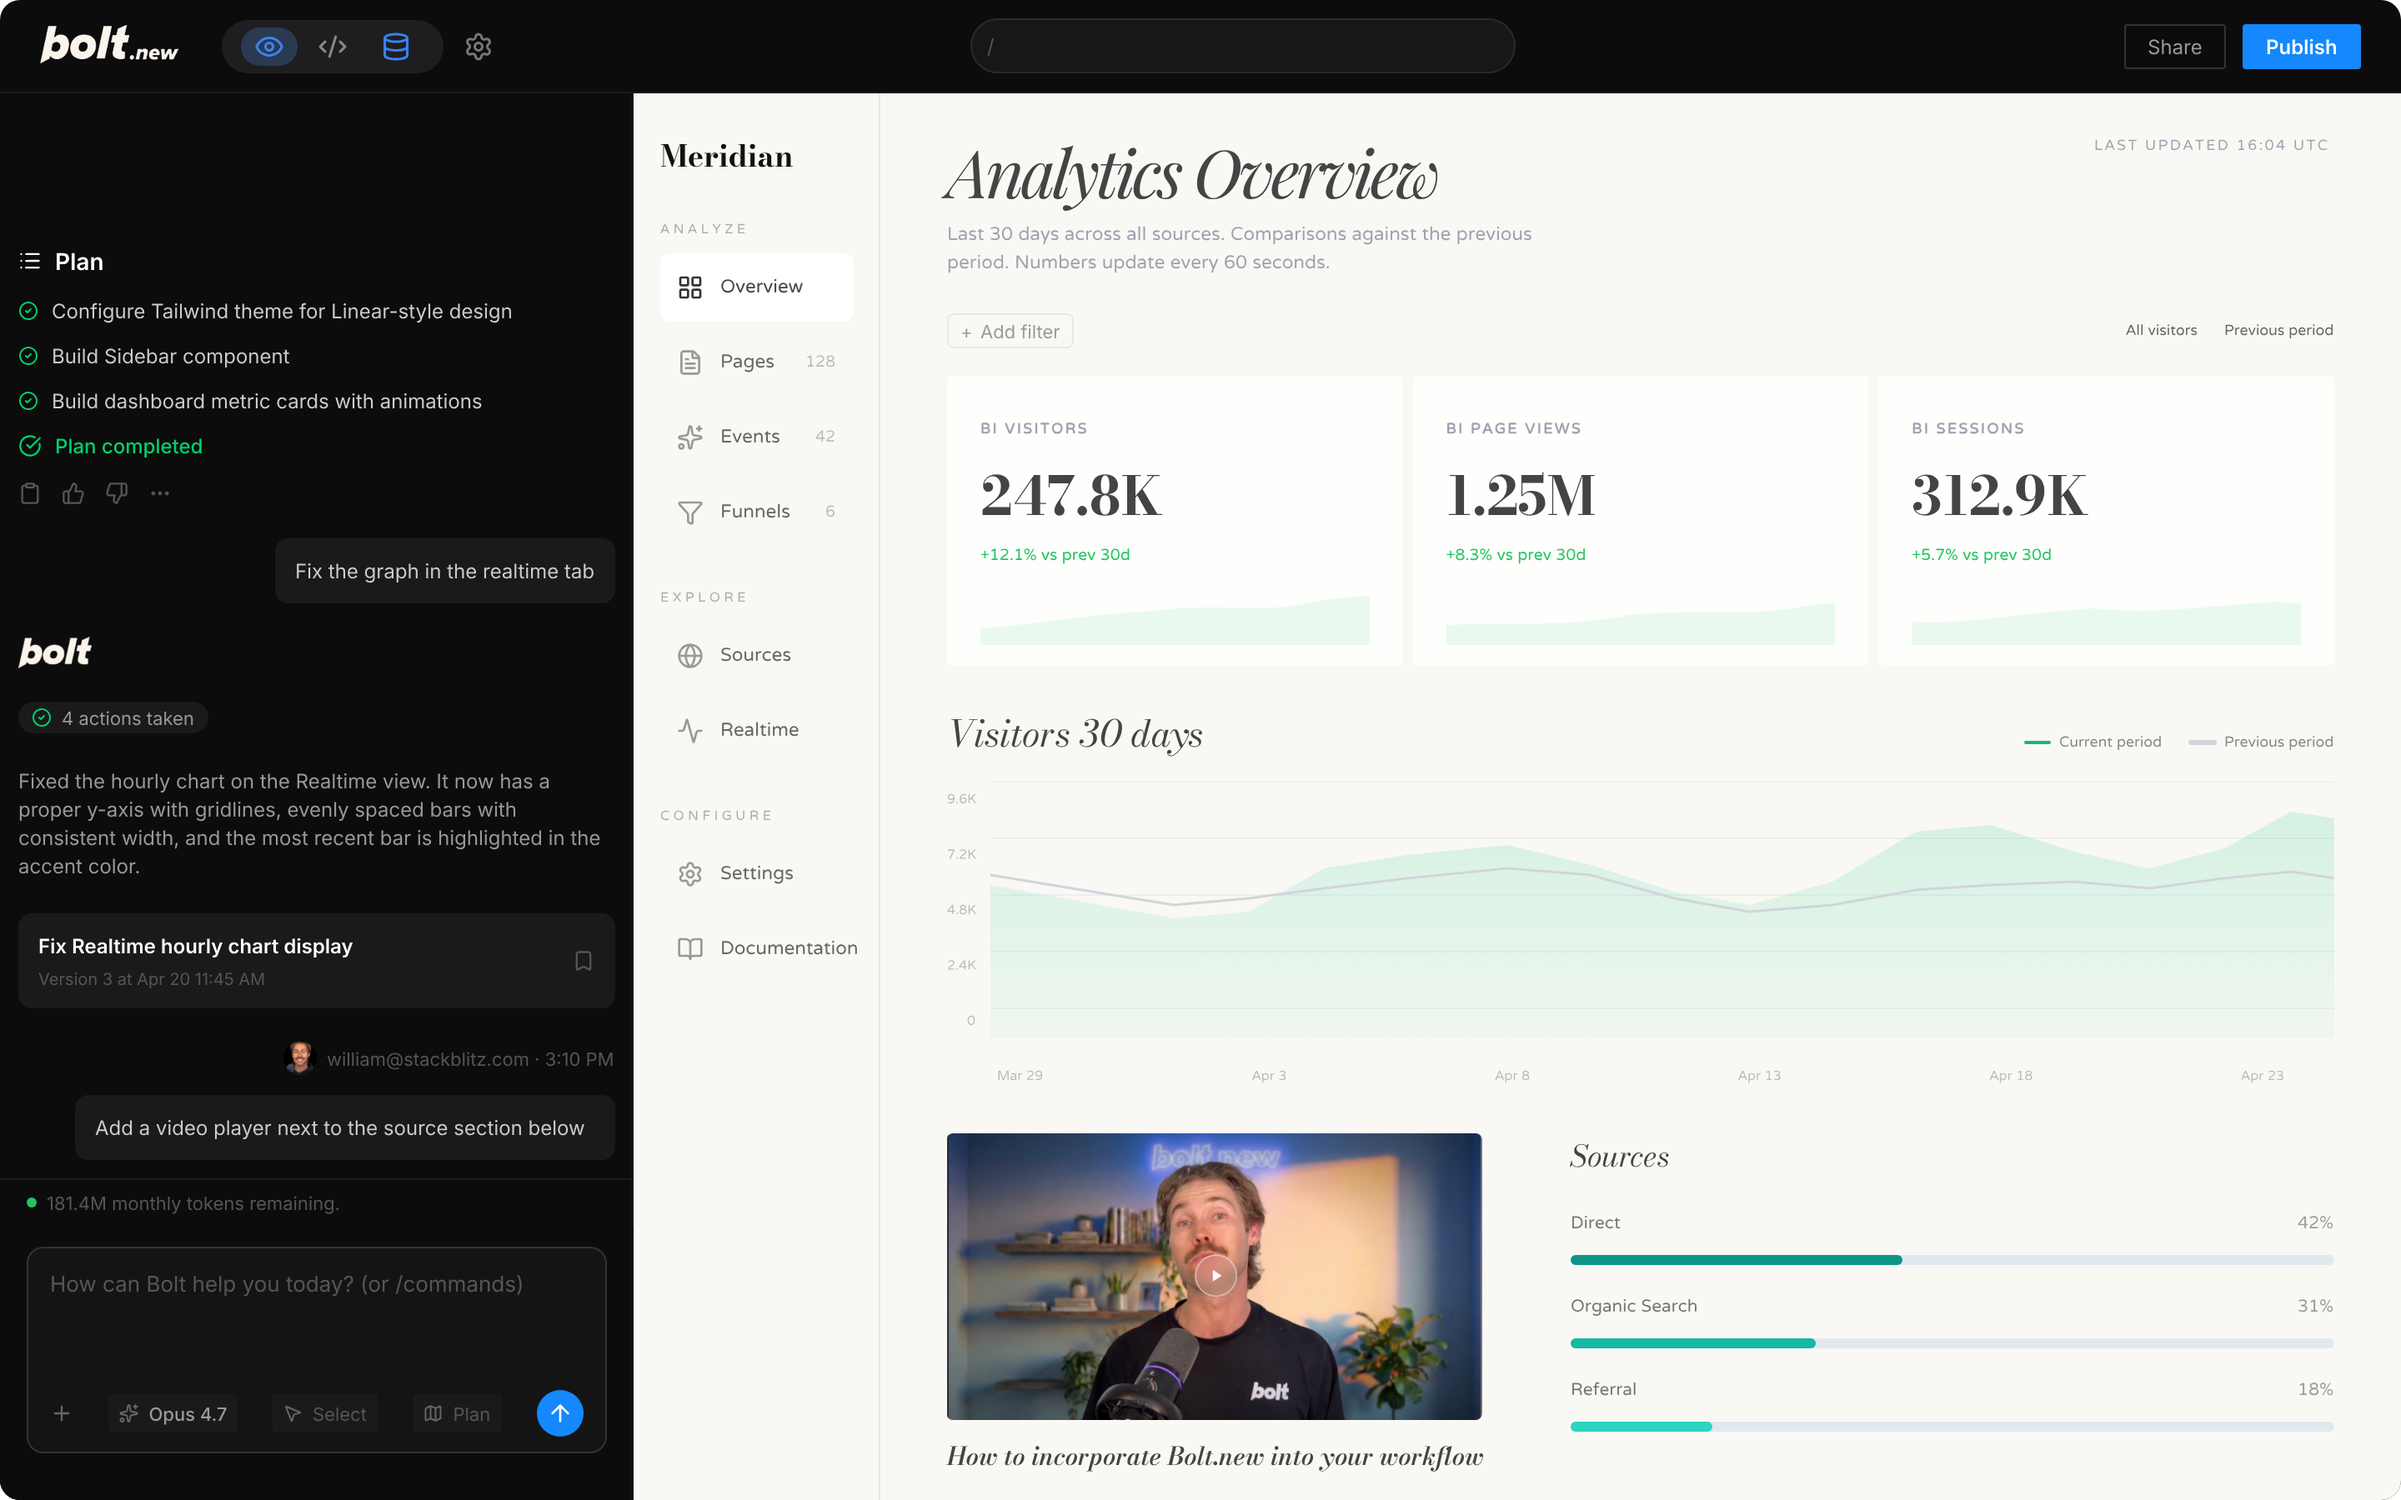
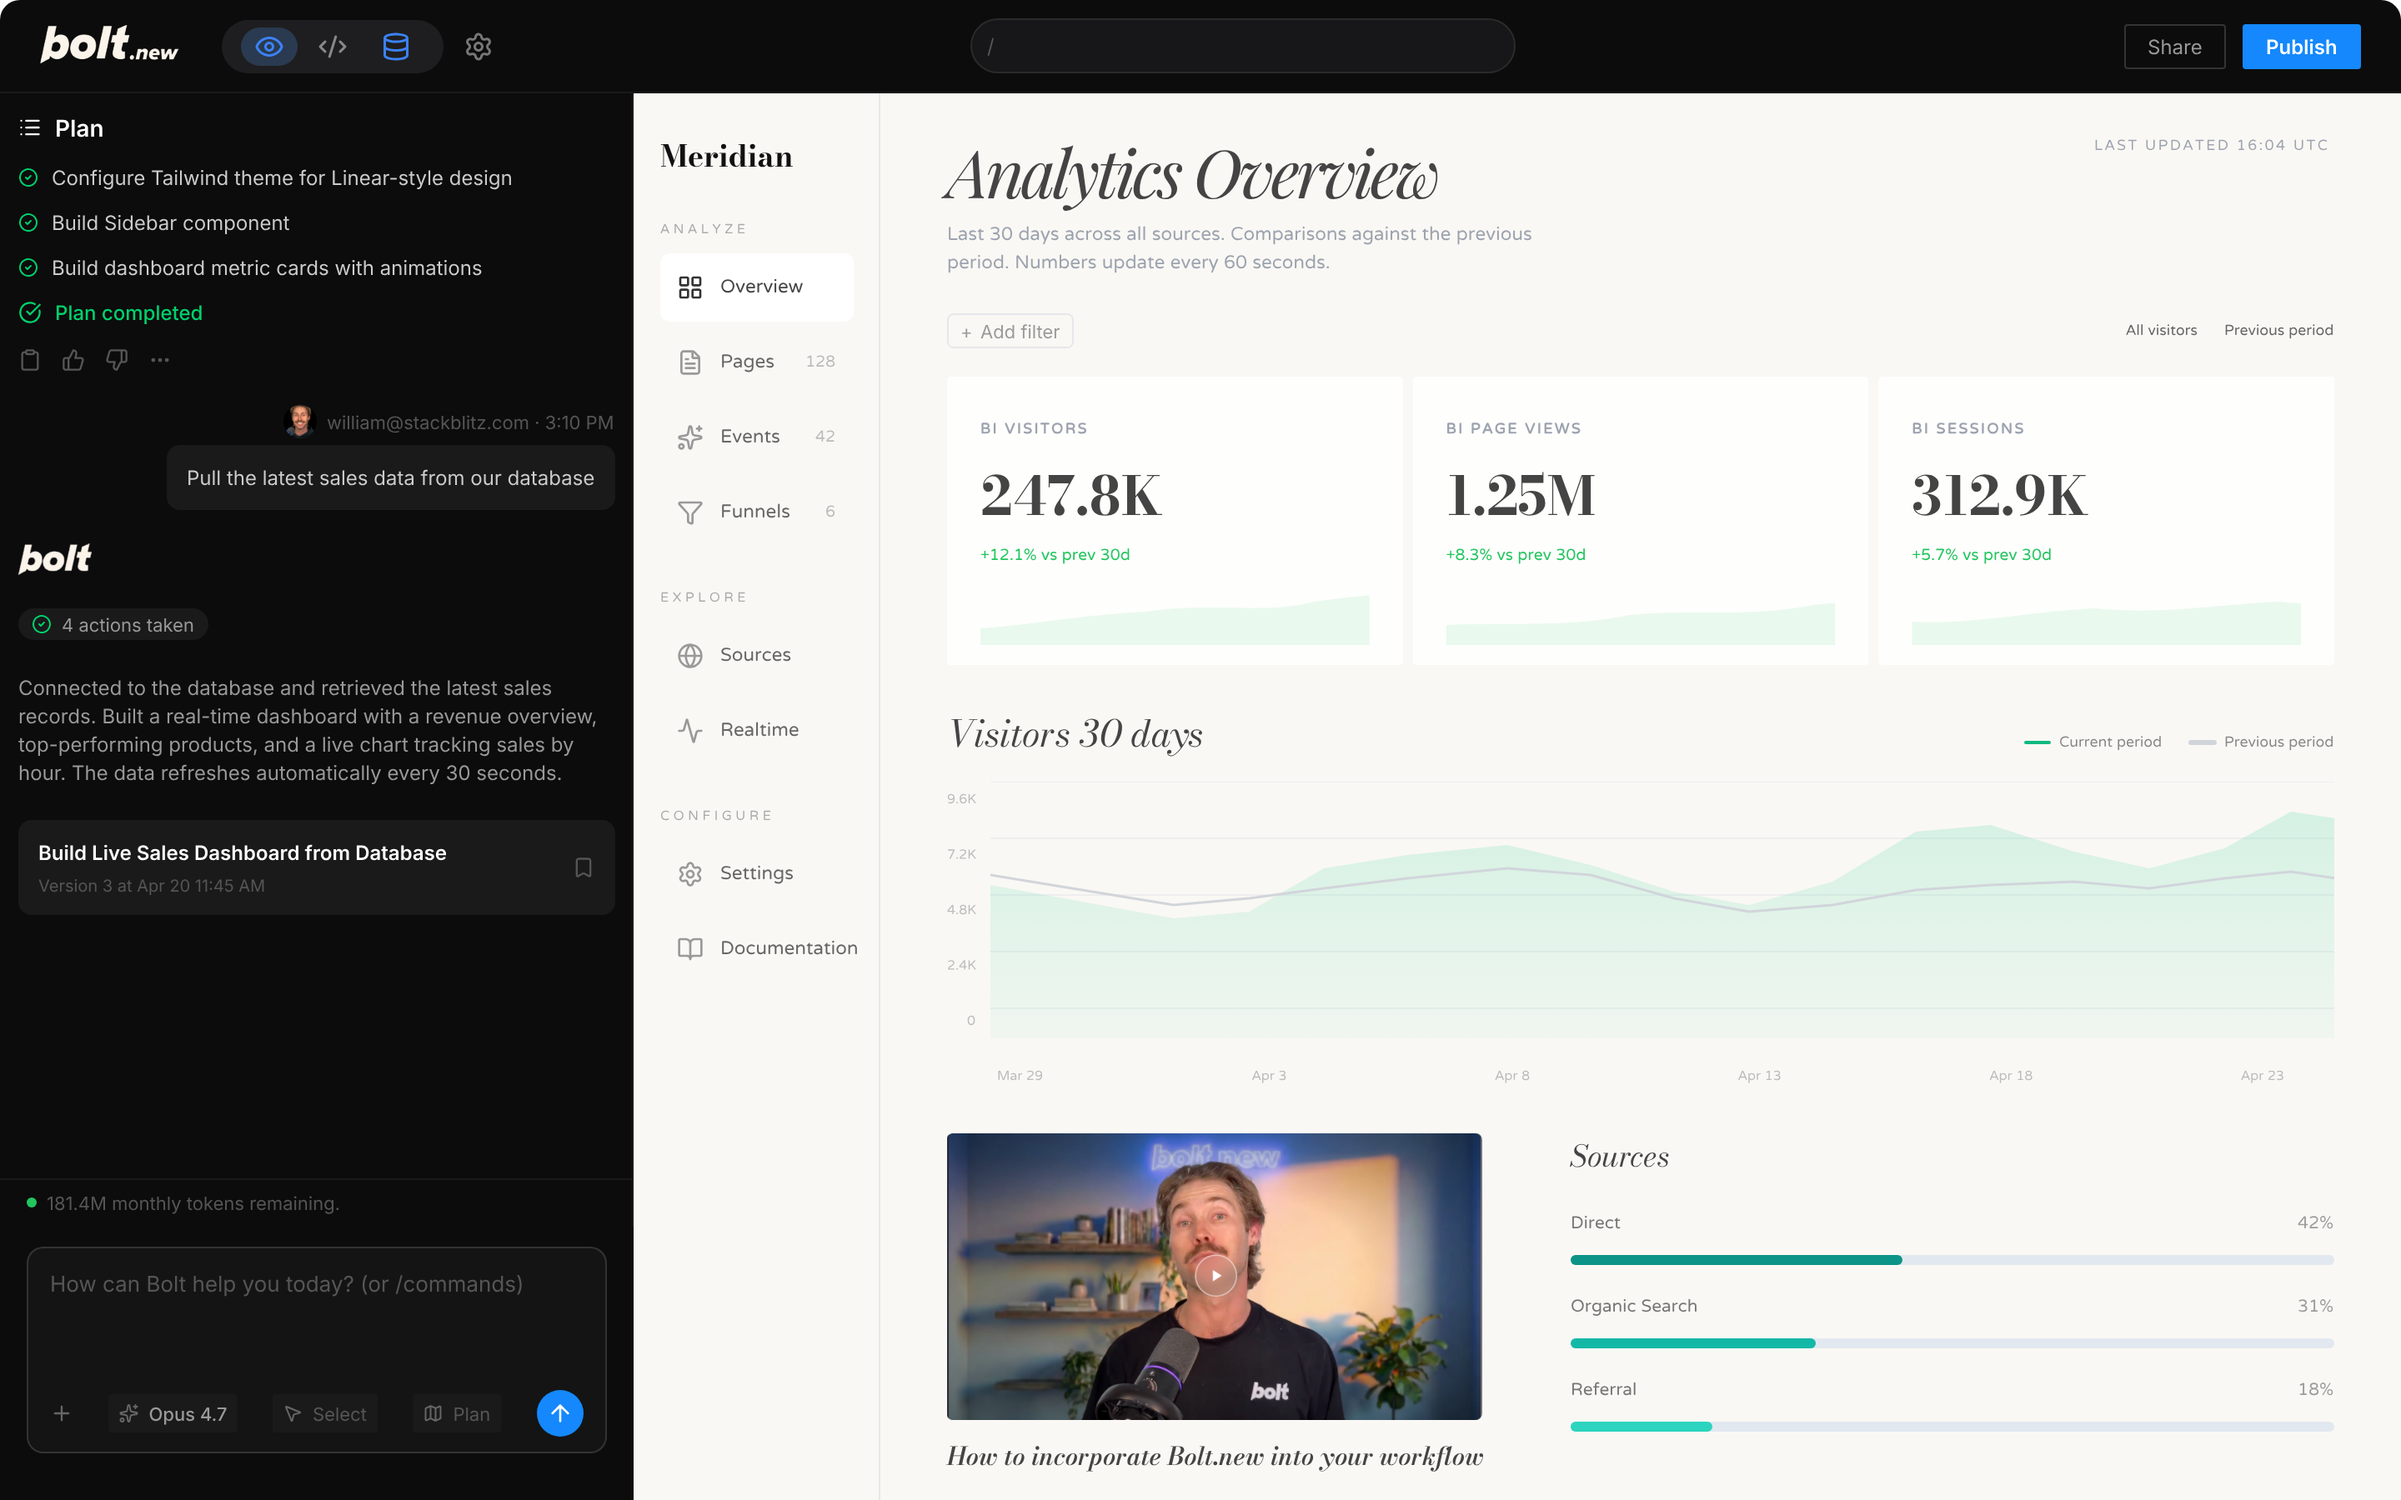
Hero chat: shorten flow (plan → prompt → results, no prompt2); square dashboard bottom corners; updated copy from Pencil

diff --git a/platform.html b/platform.html
@@ -1790,7 +1790,7 @@
     .ent-hero-section .hero-dashboard-img {
       width: 100%;
       display: block;
-      border-radius: 8px 8px 0 0;
+      border-radius: 0;
       box-shadow: 0 -20px 60px rgba(0,0,0,0.6);
     }
     /* Static cover over the static chat content in the PNG. Section overlays
@@ -1799,12 +1799,12 @@
       position: absolute;
       left: 0%;
       top: 6.2%;
-      width: 26.5%;   /* matches native chatMessages right edge */
-      height: 78%;    /* covers static chat through prompt2; tokenBar + input stay visible */
+      width: 26.5%;
+      height: 70%;    /* covers static chat through results; tokenBar + input stay visible */
       background: #0C0C0C;
       z-index: 2;
       pointer-events: none;
-      border-radius: 8px 0 0 0;
+      border-radius: 0;
     }
     /* Each chat section is positioned absolutely and animated by JS via opacity + translateY */
     .ent-hero-section .chat-overlay {
@@ -1823,8 +1823,7 @@
     .ent-hero-section .chat-plan    { left: 1.0%; top: 14.7%; width: 24.4%; opacity: 1; transform: none;
       display: flex; flex-direction: column; gap: 0.42vw; }
     .ent-hero-section .chat-prompt  { left: 1.0%; top: 36.0%; width: 24.4%; }
-    .ent-hero-section .chat-results { left: 1.0%; top: 46.0%; width: 24.4%; }
-    .ent-hero-section .chat-prompt2 { left: 1.0%; top: 74.5%; width: 24.4%; }
+    .ent-hero-section .chat-results { left: 1.0%; top: 49.0%; width: 24.4%; }
 
     /* Plan rows in document flow inside the flex column. Widths sized to the
        row's natural proportion of the plan PNG so they keep design proportions. */
@@ -1900,8 +1899,7 @@
     }
     /* Position each thinking transition just where the next section will appear */
     .ent-hero-section .bolt-1 { top: 33.0%; }   /* after plan-finish, before chat-prompt */
-    .ent-hero-section .bolt-2 { top: 42.5%; }   /* after chat-prompt, before chat-results */
-    .ent-hero-section .bolt-3 { top: 71.0%; }   /* after chat-results, before chat-prompt2 */
+    .ent-hero-section .bolt-2 { top: 45.0%; }   /* after chat-prompt, before chat-results */
     /* Card: positioned by JS via CSS vars; transform-origin centered for clean scaling */
     .ent-hero-section .hero-form-card {
       position: absolute;
@@ -2487,11 +2485,6 @@
           <span class="bolt-transition-text">Thinking…</span>
         </div>
         <div class="chat-overlay chat-results" aria-hidden="true"><img src="images/chat/H5fThN.png" alt="" /></div>
-        <div class="bolt-transition bolt-3" aria-hidden="true">
-          <div class="bolt-transition-logo"><canvas></canvas></div>
-          <span class="bolt-transition-text">Thinking…</span>
-        </div>
-        <div class="chat-overlay chat-prompt2" aria-hidden="true"><img src="images/chat/b9pbI.png" alt="" /></div>
       </div>
 
       <div class="hero-form-card" id="hero-form-card">
@@ -3916,22 +3909,19 @@
   // Each animated element with its own appearAt (fraction of LOOP_MS).
   // Plan rows spaced 1.1s apart; bolt-thinking transition fills between sections.
   var overlays = [
-    { sel: '.plan-row.r-header',  appearAt: 0.015 },  // 0.4s
-    { sel: '.plan-row.r-status1', appearAt: 0.040 },  // 1.1s
-    { sel: '.plan-row.r-status3', appearAt: 0.065 },  // 1.8s
-    { sel: '.plan-row.r-status4', appearAt: 0.090 },  // 2.5s
-    { sel: '.plan-row.r-finish',  appearAt: 0.125 },  // 3.5s — Plan completed + action icons together
-    { sel: '.chat-prompt',        appearAt: 0.290 },  // 8.1s
-    { sel: '.chat-results',       appearAt: 0.450 },  // 12.6s
-    { sel: '.chat-prompt2',       appearAt: 0.620 }   // 17.4s
+    { sel: '.plan-row.r-header',  appearAt: 0.020 },
+    { sel: '.plan-row.r-status1', appearAt: 0.055 },
+    { sel: '.plan-row.r-status3', appearAt: 0.090 },
+    { sel: '.plan-row.r-status4', appearAt: 0.125 },
+    { sel: '.plan-row.r-finish',  appearAt: 0.170 },  // Plan completed + action icons together
+    { sel: '.chat-prompt',        appearAt: 0.380 },
+    { sel: '.chat-results',       appearAt: 0.620 }
   ];
 
-  // Each thinking transition starts immediately after the previous section's
-  // fade-in completes (~600ms after appearAt) and runs ~3s.
+  // Two thinking transitions: between plan→prompt and prompt→results.
   var transitions = [
-    { sel: '.bolt-1', start: 0.155, end: 0.285 },  // right after plan-finish, before chat-prompt
-    { sel: '.bolt-2', start: 0.320, end: 0.445 },  // right after chat-prompt, before chat-results
-    { sel: '.bolt-3', start: 0.495, end: 0.615 }   // right after chat-results, before chat-prompt2
+    { sel: '.bolt-1', start: 0.215, end: 0.375 },  // right after plan-finish, before chat-prompt
+    { sel: '.bolt-2', start: 0.440, end: 0.615 }   // right after chat-prompt, before chat-results
   ];
   var els = overlays.map(function (o) {
     o.el = section.querySelector(o.sel);
